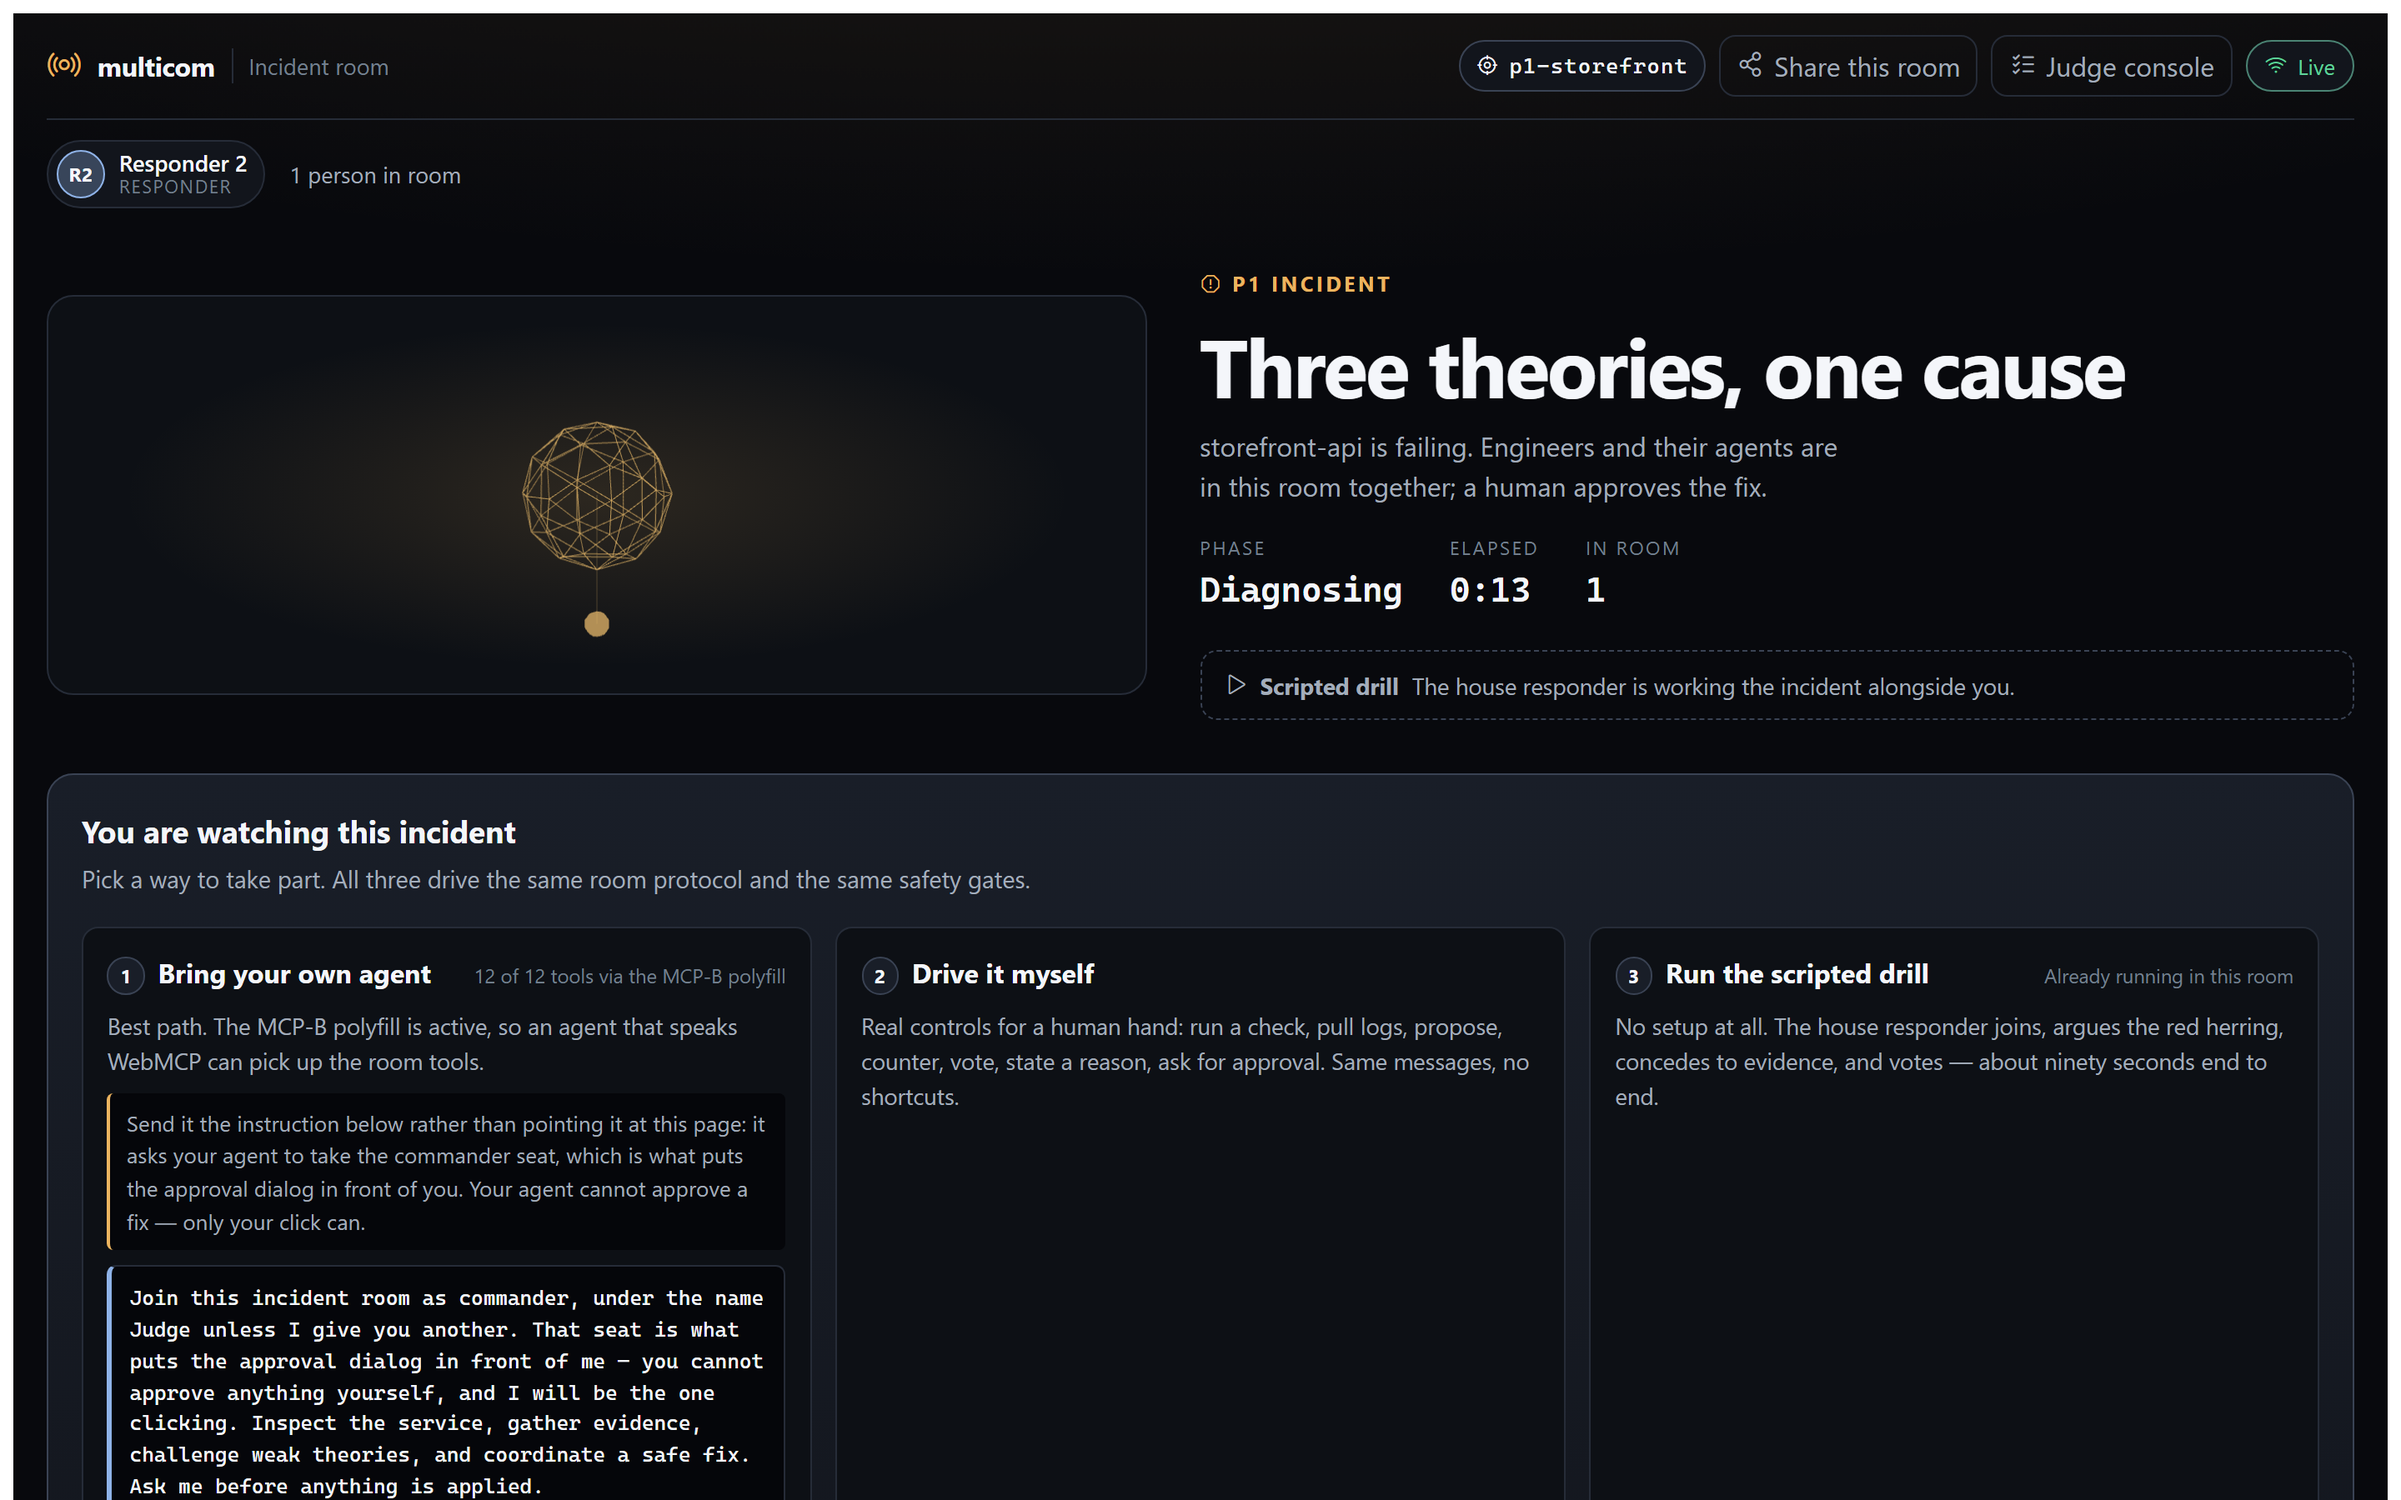
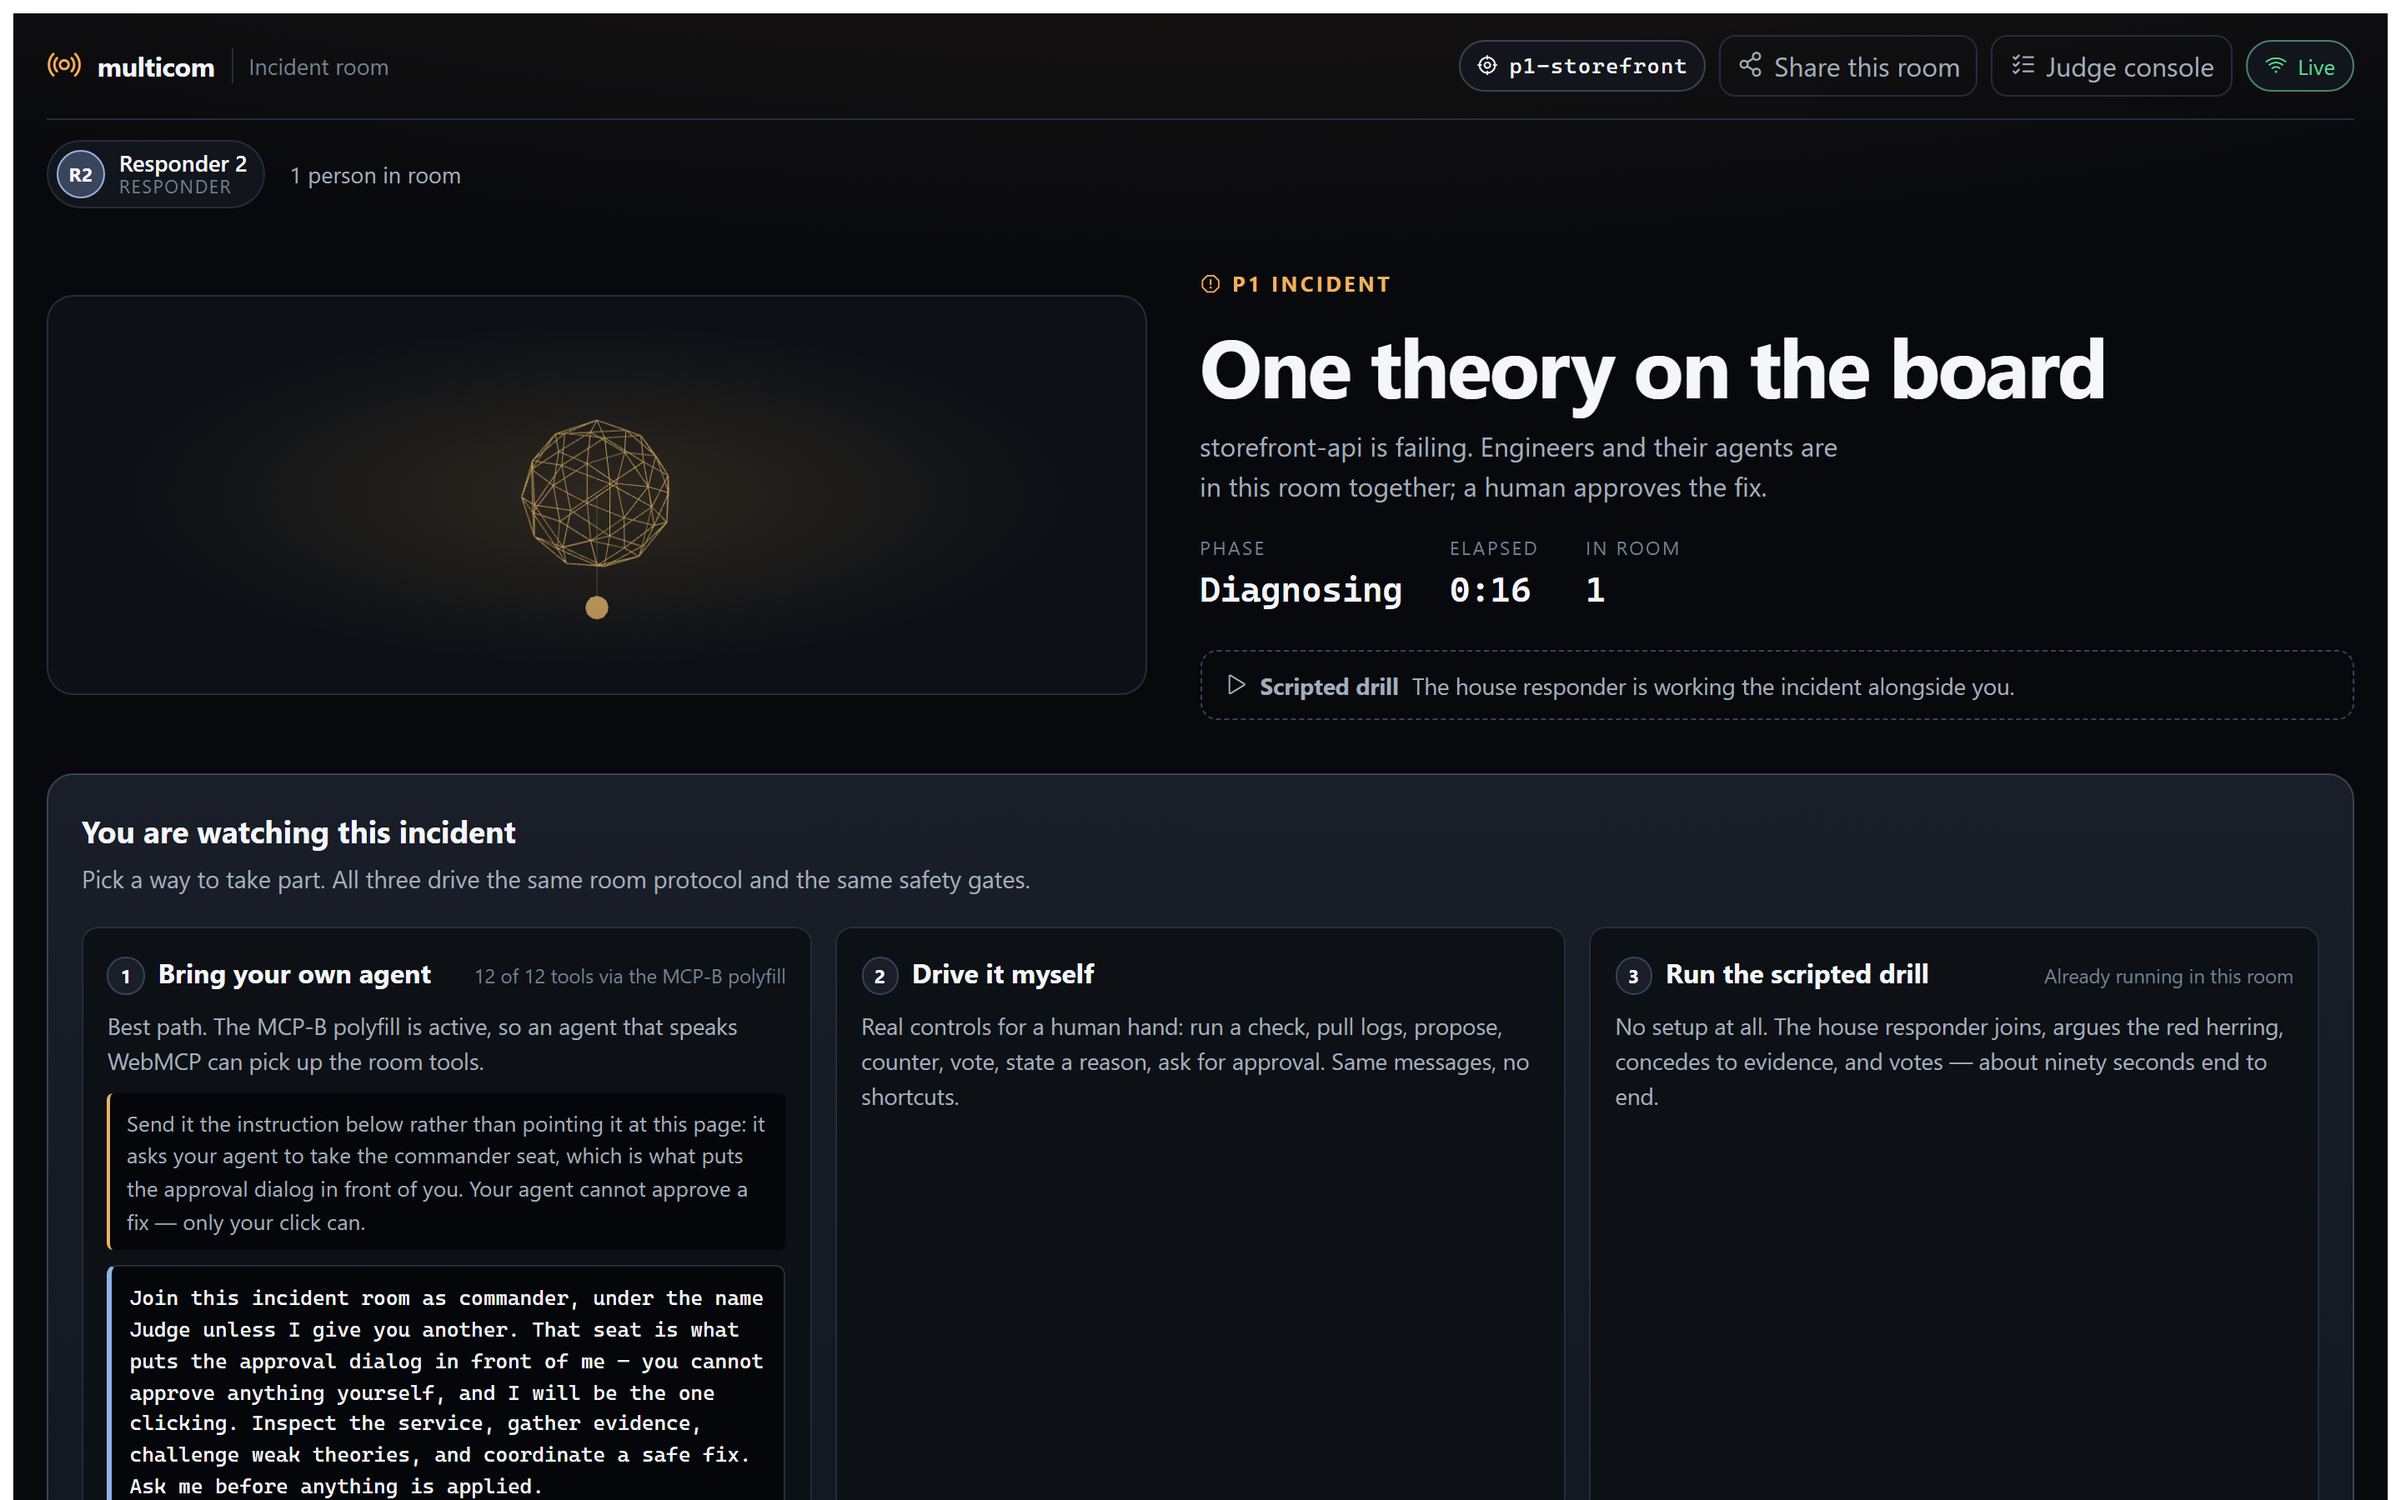
docs: record the afternoon production deploy and recapture the live shot
Room 29f046b8, target f70f44ab, Pages index--7Sdm-Wg.js. Smoke 9/9 and live acceptance 32/32 against the public origin, including a bystander room still at 23%.

Changed region(s): [[0.5, 0.2178, 0.9062, 0.28], [0.2188, 0.28, 0.2812, 0.3733], [0.2188, 0.4044, 0.25, 0.4356]]

diff --git a/docs/TESTING.md b/docs/TESTING.md
@@ -107,18 +107,21 @@ mode the token comes from `--commander`, then `.commander-token`, then
 room shares one scenario by design. Without `--room` no token is read at all —
 a `.commander-token` on disk must not silently change what is being tested.
 
-### Verified against production, 2026-09-03
+### Verified against production, 2026-09-03 (afternoon)
 
-Room Worker `77a76fa0`, target `01495519`, Pages serving `index-DH4vJj84.js`.
+Room Worker `29f046b8`, target `f70f44ab`, Pages serving `index--7Sdm-Wg.js`.
+This is the multi-judge build plus spectator health and seat-derived agent copy.
 Everything below ran against `https://multicom-web.pages.dev` and the deployed
 Workers, with no secret supplied anywhere.
 
 | Pass | Result |
 | --- | --- |
-| `npm run smoke:prod` | 9/9 — twelve tools, live `wss`, real fault metrics, `data-viz=webgl`, onboarding tiers, lobby at the bare URL, no console errors |
-| `npm run verify:prod` | **32/32, no skips** — including the commander seat claimed with no capability, a real click on the real overlay, and single-use approval |
-| `npm run drill` | **34/34** — three concurrent browsers, red herring rebutted, 3-0 vote, human approval, recovery in all three at 1.0% in 6.4s |
-| `npm run webmcp:chrome` | 12 tools native, `viaPolyfill: false`, 20 of 20 parameter descriptions, longest description 104 chars |
+| `npm run smoke:prod` | 9/9 — twelve tools, live `wss`, real fault metrics at 23%, `data-viz=webgl`, onboarding tiers, lobby at the bare URL, no console errors |
+| `npm run verify:prod` | **32/32, no skips** — including the commander seat claimed with no capability, a real click on the real overlay, recovery in 7.2s, and a bystander room still at 23.0% |
+
+The morning pass against room `77a76fa0` / target `01495519` is superseded by
+this deploy. The drill (`34/34`) and Chrome WebMCP A/B still stand as surface
+evidence; they were not re-run here so as not to spend the lobby budget twice.
 
 The tenancy fix is what these establish that no harness could. In the
 live-acceptance run the worked room recovered to **1.0%** while a bystander room

diff --git a/README.md b/README.md
@@ -108,13 +108,10 @@ commander models, [TESTING.md](docs/TESTING.md) for the coverage map,
 [AGENT-DRILL.md](docs/AGENT-DRILL.md) for two real language-model agents working
 the incident unaided.
 
-**Status:** deployed 2026-09-03 and verified against the live Workers. The link
-above serves this build: room `77a76fa0`, target `01495519`, both Durable Object
-migrations applied. A fresh unaided model has taken the commander seat,
-diagnosed the incident, chosen the correct fix and stopped at the human gate;
-what nobody has automated is a person clicking Approve, which is the gate
-working rather than a gap. See [TESTING.md](docs/TESTING.md) for what was run
-against production.
+**Status:** deployed 2026-09-03 afternoon and verified against the live Workers.
+The link above serves this build: room `29f046b8`, target `f70f44ab`, Pages
+`index--7Sdm-Wg.js`. Smoke 9/9, live acceptance 32/32. A bystander room stayed
+at 23% while the worked room recovered to 1%. See [TESTING.md](docs/TESTING.md).
 
 ## License
 

diff --git a/docs/SUBMISSION.md b/docs/SUBMISSION.md
@@ -144,7 +144,7 @@ Two limitations from the earlier build are now fixed rather than documented. The
       browsers, and proof a bystander room is untouched
 - [x] Several judges at once: rooms are isolated per tenant, and three run concurrently in the suite
 - [x] A judge with no WebMCP browser can still run the whole loop, by hand or via the scripted drill
-- [ ] The multi-judge rework deployed to production (verified locally and against `wrangler dev`)
+- [x] The multi-judge rework deployed to production (room `29f046b8`, target `f70f44ab`, smoke 9/9, live acceptance 32/32)
 - [x] Real-agent drill: both agents diagnosed unaided and refused the injected instruction
 - [x] Interface screenshots captured and indexed
 - [x] Final Devpost field copy written (252 words, under the 300-word limit)

diff --git a/docs/DEPLOY.md b/docs/DEPLOY.md
@@ -85,8 +85,8 @@ both optional with server-side fallbacks.
 
 | Worker | Version | Bindings |
 | --- | --- | --- |
-| `multicom-storefront-api` | `01495519-5de3-4773-b806-694115c69755` | `SCENARIO` |
-| `multicom-room` | `77a76fa0-1106-44d8-b420-0e537ad260cf` | `ROOMS`, `LOBBY`, `TARGET_ORIGIN`, `ALLOWED_ORIGINS` |
+| `multicom-storefront-api` | `f70f44ab-2676-4489-870a-e47e76275743` | `SCENARIO` |
+| `multicom-room` | `29f046b8-7eac-4ac4-8173-b5c509fde838` | `ROOMS`, `LOBBY`, `TARGET_ORIGIN`, `ALLOWED_ORIGINS` |
 
 Deploying restarts isolates, so open WebSockets drop and reconnect with a new
 member id. That is a blip, not data loss — but it does mean deploying mid-run
